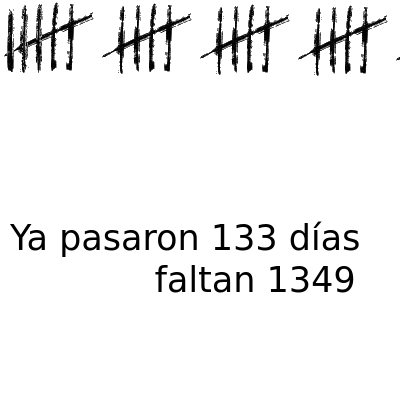
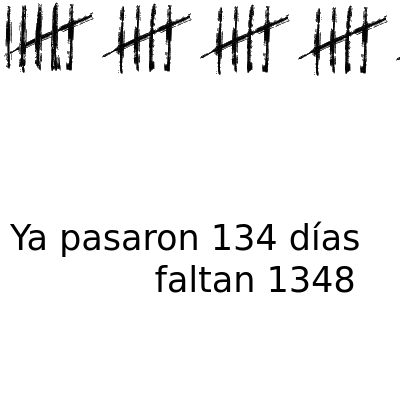
deploy: 28882f26f23b9f53dac6c4991168e610486d0e44

Changed region(s): [[0.0, 0.0, 0.15, 0.18], [0.63, 0.54, 0.69, 0.63], [0.84, 0.66, 0.9, 0.75]]

diff --git a/index.html b/index.html
@@ -3,19 +3,19 @@
   <head>
     <meta charset='utf-8'>
     <meta http-equiv='X-UA-Compatible' content='IE=edge'>
-    <title>Ya pasaron 133 días y faltan 1349</title>
-    <meta name="description" content="Ya pasaron 133 días y faltan 1349">
-    <meta itemprop="name" content="Ya pasaron 133 días y faltan 1349">
-    <meta itemprop="description" content="Ya pasaron 133 días y faltan 1349">
+    <title>Ya pasaron 134 días y faltan 1348</title>
+    <meta name="description" content="Ya pasaron 134 días y faltan 1348">
+    <meta itemprop="name" content="Ya pasaron 134 días y faltan 1348">
+    <meta itemprop="description" content="Ya pasaron 134 días y faltan 1348">
     <meta name="twitter:card" content="summary">
-    <meta name="twitter:title" content="Ya pasaron 133 días y faltan 1349">
-    <meta name="twitter:description" content="Ya pasaron 133 días y faltan 1349">
+    <meta name="twitter:title" content="Ya pasaron 134 días y faltan 1348">
+    <meta name="twitter:description" content="Ya pasaron 134 días y faltan 1348">
     <meta name="twitter:creator" content="@FloriusWasTaken">
     <meta name="twitter:image" content="https://pasaron.meme.ar/capture.png">
-    <meta property="og:title" content="Ya pasaron 133 días y faltan 1349">
-    <meta property="og:description" content="Ya pasaron 133 días y faltan 1349">
+    <meta property="og:title" content="Ya pasaron 134 días y faltan 1348">
+    <meta property="og:description" content="Ya pasaron 134 días y faltan 1348">
     <meta property="og:url" content="https://pasaron.meme.ar">
-    <meta property="og:site_name" content="Ya pasaron 133 días y faltan 1349">
+    <meta property="og:site_name" content="Ya pasaron 134 días y faltan 1348">
     <meta property="og:type" content="website">
     <meta property="og:image" content="https://pasaron.meme.ar/capture.png">
     <meta name="theme-color" content="#dc143c">
@@ -69,18 +69,18 @@
         padding: 0;
       }
     </style>
-    <title>Ya pasaron 133 días y faltan 1349</title>
+    <title>Ya pasaron 134 días y faltan 1348</title>
   </head>
   <body>
     <div id="main">
       <img src="img/5.png"/><img src="img/5.png"/><img src="img/5.png"/><img src="img/5.png"/><img src="img/5.png"/><img src="img/5.png"/><img src="img/5.png"/><img src="img/5.png"/><img src="img/5.png"/><img src="img/5.png"/><img src="img/5.png"/><img src="img/5.png"/><img src="img/5.png"/><img src="img/5.png"/><img src="img/5.png"/><img src="img/5.png"/><img src="img/5.png"/><img src="img/5.png"/><img src="img/5.png"/><img src="img/5.png"/><img src="img/5.png"/><img src="img/5.png"/><img src="img/5.png"/><img src="img/5.png"/><img src="img/5.png"/><img src="img/5.png"/>
       
-        <img src="img/3.png"/>
+        <img src="img/4.png"/>
       
     </div>
     <footer id="footer">
       <marquee id="marquee" class="is-vertical-align">
-        Ya pasaron 133 días y faltan 1349
+        Ya pasaron 134 días y faltan 1348
       </marquee>
       <ul>
         <li>
